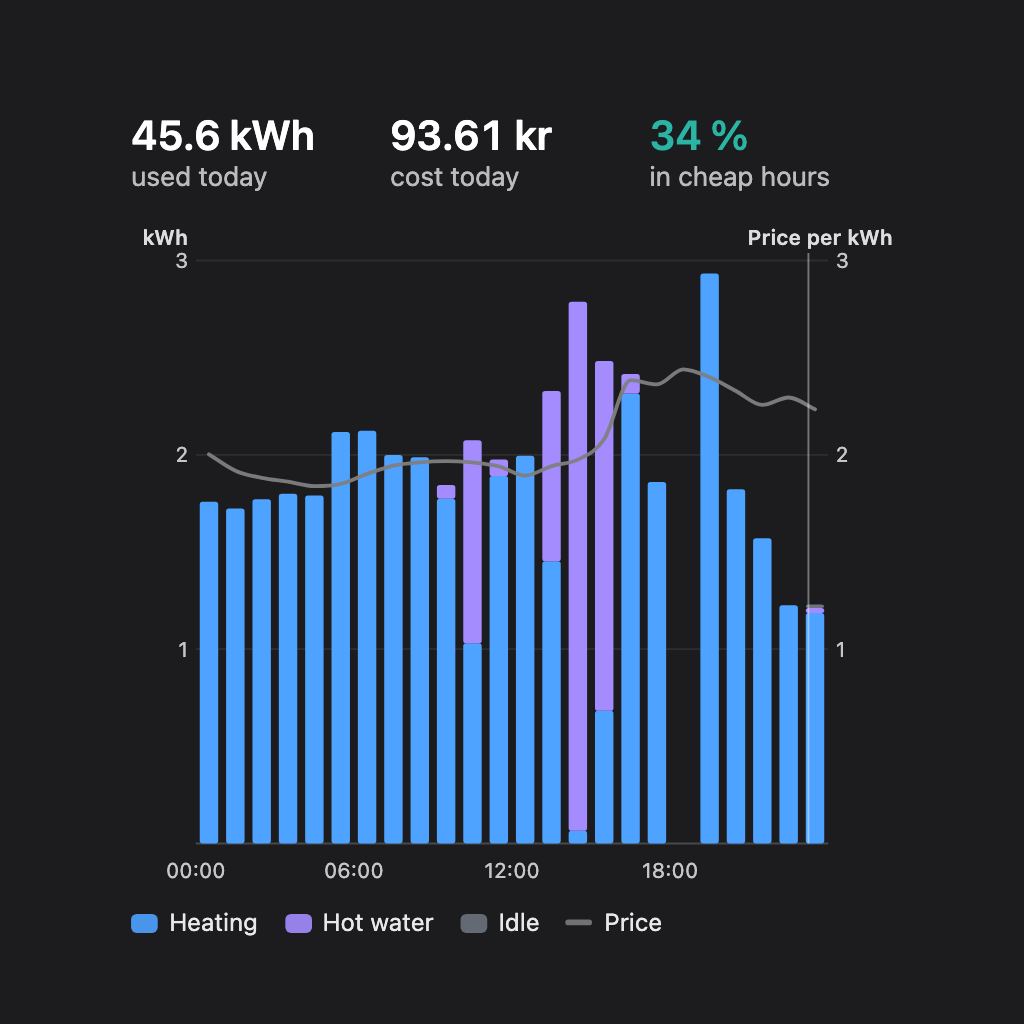
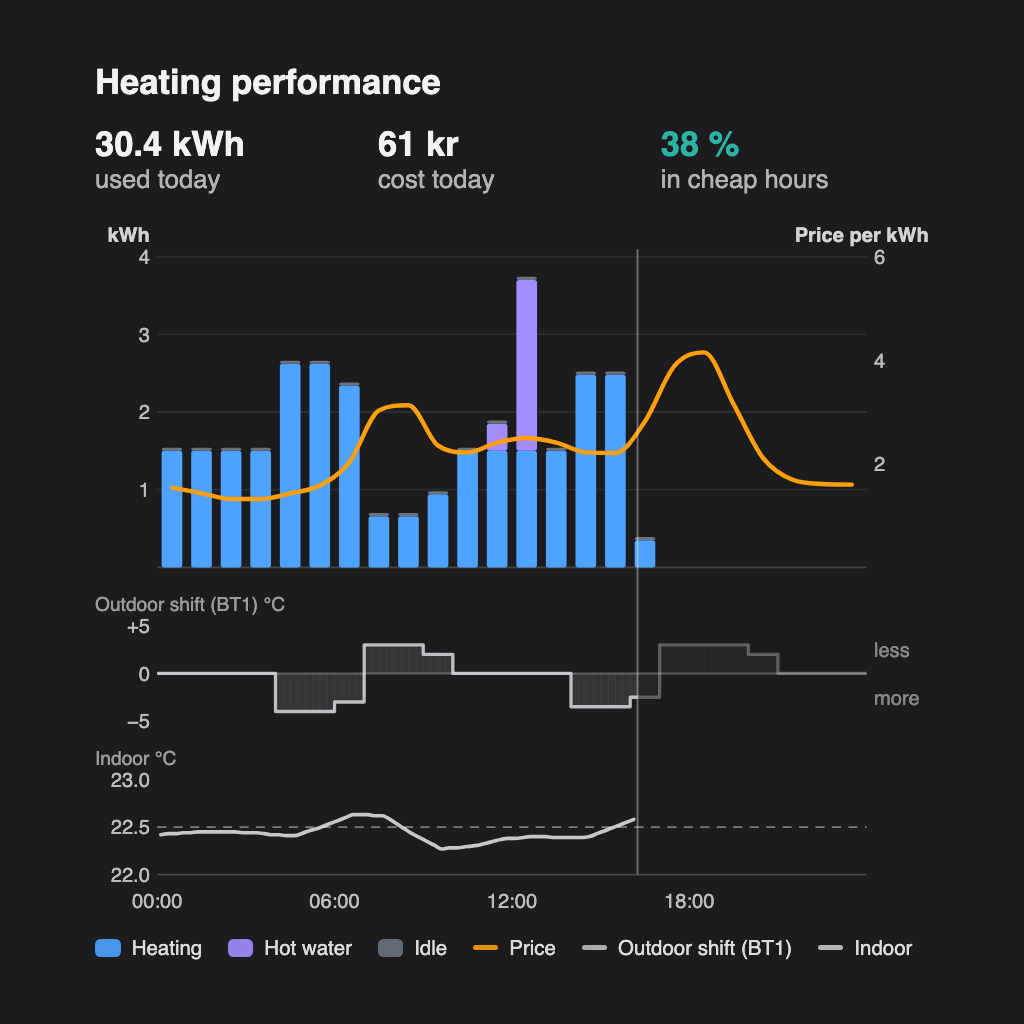
Heating performance replaces Energy today
The Energy today widget becomes Heating performance: a heading, the same three
numbers (used, cost, share in cheap hours), the hourly electricity against an
orange price line, then two strips on the same hours: the outdoor shift (BT1)
Autopilot sent, its plan after now lighter, and indoor against the thermostat.
An owner sees the shift and the electricity follow the price.

A day's cost is now written as a bill: whole kronor, euro to 10 cents (also
Overview's today and by-midnight figures, which read the same numbers).

Same widget id, so cards already on a dashboard carry over. New previews.

diff --git a/widgets/energy/public/index.html b/widgets/energy/public/index.html
@@ -1,16 +1,19 @@
 <html>
   <head>
+    <meta charset="utf-8">
     <style>
       .en { padding: var(--homey-su-2, 8px) var(--homey-su-3, 12px); }
       .en-title { opacity: 0.7; white-space: nowrap; overflow: hidden; text-overflow: ellipsis; }
       .en-chips { display: flex; flex-wrap: wrap; gap: 6px; margin: 6px 0 0; }
       .en-chip { font-size: 0.8em; padding: 2px 8px; border-radius: 999px; background: transparent; border: 1px solid rgba(127, 127, 127, 0.4); opacity: 0.75; }
-      .en-status { text-wrap: balance; margin: 12px 0 0; font-size: 1.35em; font-weight: 600; }
+      .en-status { text-wrap: balance; margin: 4px 0 0; font-size: 1.35em; font-weight: 600; }
       .en-reason { margin: 4px 0 0; opacity: 0.85; }
       .en-chart { display: block; margin-top: 14px; overflow: visible; }
       .en-chart text { font-size: 11px; fill: currentColor; opacity: 0.75; }
       .en-chart text.axis-title { font-size: 11px; font-weight: 600; opacity: 0.85; }
       .en-chart text.grid { font-size: 10px; opacity: 0.55; }
+      .en-chart text.lane { font-size: 10.5px; opacity: 0.6; }
+      .en-chart text.side { opacity: 0.5; }
       .en-legend { display: flex; flex-wrap: wrap; gap: 4px 14px; font-size: 0.8em; opacity: 0.9; margin-top: 10px; }
       .en-key { display: inline-block; width: 14px; height: 10px; border-radius: 3px; margin-right: 6px; vertical-align: -1px; box-sizing: border-box; }
       .en-key.line { height: 3px; border-radius: 2px; vertical-align: 3px; }
@@ -28,12 +31,13 @@
       .en-num b { display: block; font-size: 1.35em; font-weight: 600; font-variant-numeric: tabular-nums; white-space: nowrap; }
       .en-num b.good { color: var(--en-cheap); }
       .en-num span { opacity: 0.7; }
-      /* Heating in blue, hot water in violet (the hot water cards' use colour), the price in grey,
-         and the cheap share in the savings cards' cheap colour. */
-      :root { --en-heat: #2d6bd6; --en-water: #7652d6; --en-idle: #a7adb6; --en-price: rgba(127, 127, 127, 0.95); --en-cheap: #0f8374; }
-      :root[data-theme="dark"] { --en-heat: #4da3ff; --en-water: #a48cff; --en-idle: #6c737d; --en-cheap: #2bb3a3; }
+      /* Heating in blue, hot water in violet (the hot water cards' use colour), the price in orange (the
+         owner's choice, 2026-11-26, so it stands out from the bars), and the cheap share in the savings
+         cards' cheap colour. The outdoor shift and indoor are the text colour: they are read, not keyed. */
+      :root { --en-heat: #2d6bd6; --en-water: #7652d6; --en-idle: #a7adb6; --en-price: #d46a00; --en-cheap: #0f8374; }
+      :root[data-theme="dark"] { --en-heat: #4da3ff; --en-water: #a48cff; --en-idle: #6c737d; --en-price: #ff9f0a; --en-cheap: #2bb3a3; }
       @media (prefers-color-scheme: dark) {
-        :root:not([data-theme="light"]) { --en-heat: #4da3ff; --en-water: #a48cff; --en-idle: #6c737d; --en-cheap: #2bb3a3; }
+        :root:not([data-theme="light"]) { --en-heat: #4da3ff; --en-water: #a48cff; --en-idle: #6c737d; --en-price: #ff9f0a; --en-cheap: #2bb3a3; }
       }
     </style>
   </head>
@@ -143,10 +147,13 @@
       }
 
       // kWh per hour as bars, heating at the bottom, then hot water, Main's idle use on top, on the left scale; the
-      // hour's price as a line on the right scale; a thin line at now.
+      // hour's price as a line on the right scale. Under it, on the same hours, the outdoor shift Autopilot
+      // sent (the plan after now lighter) and indoor against the thermostat. A thin line at now through all.
+      var STRIP = 52, STRIP_GAP = 32;
       function energyChart(data) {
         var c = data.chart, W = chartWidth(), L = GUTTER, R = W - GUTTER, n = c.hours.length, step = (R - L) / n, bw = Math.max(2, step * 0.7);
-        var PH = Math.max(110, Math.min(170, Math.round(W * 0.38))) + EXTRA, T = 20, B = T + PH, H = B + 24;
+        var st = data.strips || {}, lanes = (st.offset ? 1 : 0) + (st.indoor ? 1 : 0);
+        var PH = Math.max(110, Math.min(170, Math.round(W * 0.38))) + EXTRA, T = 20, B = T + PH, H = B + lanes * (STRIP + STRIP_GAP) + 24;
         var svg = svgEl('svg', {viewBox: '0 0 ' + W + ' ' + H, width: W, height: H, class: 'en-chart', role: 'img'});
         var yk = function (v) { return B - PH * v / c.kwhAxis.max; }, yp = function (v) { return B - PH * v / c.priceAxis.max; };
         var x = function (k) { return L + step * (k + 0.5); };
@@ -174,11 +181,63 @@
         });
         var p = [];
         c.hours.forEach(function (h, k) { if (typeof h.price === 'number') p.push([x(k), yp(h.price)]); });
-        if (p.length) svg.appendChild(svgEl('path', {d: monotone(p), fill: 'none', stroke: 'var(--en-price)', 'stroke-width': 2, 'stroke-linecap': 'round'}));
+        if (p.length) svg.appendChild(svgEl('path', {d: monotone(p), fill: 'none', stroke: 'var(--en-price)', 'stroke-width': 2.4, 'stroke-linecap': 'round'}));
+        var bottom = B, sx = function (k) { return L + step * k / 4; };
+        if (st.offset && st.shiftAxis) bottom = shiftStrip(svg, st, data.axes, bottom + STRIP_GAP, L, R, sx);
+        if (st.indoor && st.indoorAxis) bottom = indoorStrip(svg, st, data.axes, bottom + STRIP_GAP, L, R, sx);
         if (typeof data.now === 'number')
-          svg.appendChild(svgEl('line', {x1: L + step * data.now, x2: L + step * data.now, y1: T - 4, y2: B, stroke: 'currentColor', 'stroke-opacity': 0.4}));
+          svg.appendChild(svgEl('line', {x1: L + step * data.now, x2: L + step * data.now, y1: T - 4, y2: bottom, stroke: 'currentColor', 'stroke-opacity': 0.4}));
         hours(svg, data.ticks.map(function (t) { return {x: L + step * t.at, label: t.label}; }), H - 6);
         return svg;
+      }
+
+      function signed(v) { return v > 0 ? '+' + v : v < 0 ? '−' + Math.abs(v) : '0'; }
+
+      // BT1 as sent minus the real outdoor temperature, in steps from 0: below 0 it was sent colder, so the
+      // heat pump heats more. Recorded up to now, the plan after it lighter.
+      function shiftStrip(svg, st, axes, top, L, R, sx) {
+        var a = st.shiftAxis, y = function (v) { return top + STRIP * (a.hi - v) / (a.hi - a.lo); };
+        svg.appendChild(svgEl('text', {x: 0, y: top - 8, class: 'lane'}, axes.offset));
+        svg.appendChild(svgEl('line', {x1: L, x2: R, y1: y(0), y2: y(0), stroke: 'currentColor', 'stroke-opacity': 0.3}));
+        [a.lo, 0, a.hi].forEach(function (v) { svg.appendChild(svgEl('text', {x: L - 4, y: y(v) + 4, 'text-anchor': 'end'}, signed(v))); });
+        if (axes.less) svg.appendChild(svgEl('text', {x: R + 4, y: y(a.hi / 2) + 4, class: 'side'}, axes.less));
+        if (axes.more) svg.appendChild(svgEl('text', {x: R + 4, y: y(a.lo / 2) + 4, class: 'side'}, axes.more));
+        [[0, st.planFrom, 0.75], [st.planFrom, st.offset.length, 0.3]].forEach(function (part) {
+          var d = '', pen = false;
+          for (var k = part[0]; k < part[1]; k++) {
+            var v = st.offset[k];
+            if (typeof v !== 'number') { pen = false; continue; }
+            if (v) svg.appendChild(svgEl('rect', {x: sx(k), y: Math.min(y(0), y(v)), width: sx(k + 1) - sx(k) + 0.2, height: Math.abs(y(v) - y(0)),
+              fill: 'currentColor', 'fill-opacity': part[2] * 0.16}));
+            d += (pen ? 'L' : 'M') + sx(k).toFixed(1) + ' ' + y(v).toFixed(1) + 'H' + sx(k + 1).toFixed(1);
+            pen = true;
+          }
+          if (d) svg.appendChild(svgEl('path', {d: d, fill: 'none', stroke: 'currentColor', 'stroke-opacity': part[2], 'stroke-width': 1.8, 'stroke-linejoin': 'round'}));
+        });
+        return top + STRIP;
+      }
+
+      // Indoor as recorded, a smooth line, and the thermostat dashed.
+      function indoorStrip(svg, st, axes, top, L, R, sx) {
+        var a = st.indoorAxis, y = function (v) { return top + STRIP * (a.hi - v) / (a.hi - a.lo); };
+        svg.appendChild(svgEl('text', {x: 0, y: top - 8, class: 'lane'}, axes.indoor));
+        var hasSet = typeof st.setpoint === 'number';
+        if (hasSet) {
+          svg.appendChild(svgEl('line', {x1: L, x2: R, y1: y(st.setpoint), y2: y(st.setpoint), stroke: 'currentColor', 'stroke-opacity': 0.45, 'stroke-dasharray': '5 4'}));
+          svg.appendChild(svgEl('text', {x: L - 4, y: y(st.setpoint) + 4, 'text-anchor': 'end'}, fmt(st.setpoint, 1)));
+        }
+        // The scale's ends, where they do not crowd the thermostat's label.
+        [a.lo, a.hi].forEach(function (v) {
+          if (hasSet && Math.abs(y(v) - y(st.setpoint)) < 12) return;
+          svg.appendChild(svgEl('text', {x: L - 4, y: y(v) + 4, 'text-anchor': 'end'}, fmt(v, a.decimals)));
+        });
+        runs(st.indoor, function (v) { return v; }).forEach(function (r) {
+          var p = [];
+          for (var k = r[0]; k <= r[1]; k++) p.push([sx(k + 0.5), y(st.indoor[k])]);
+          svg.appendChild(svgEl('path', {d: monotone(p), fill: 'none', stroke: 'currentColor', 'stroke-opacity': 0.8, 'stroke-width': 2, 'stroke-linecap': 'round'}));
+        });
+        svg.appendChild(svgEl('line', {x1: L, x2: R, y1: top + STRIP, y2: top + STRIP, stroke: 'currentColor', 'stroke-opacity': 0.2}));
+        return top + STRIP;
       }
 
       function legend(items) {
@@ -217,9 +276,11 @@
         // The card's own title names it; the device name and an Experimental tag are not repeated.
         if (data.empty) { root.appendChild(el('p', 'en-empty', data.empty)); return; }
         if (data.loading && !data.chart) {
-          root.appendChild(placeholder(Math.max(110, Math.min(170, Math.round(chartWidth() * 0.38))) + 60 + EXTRA));
+          // Room for the two strips too, so the card does not grow when the data comes.
+          root.appendChild(placeholder(Math.max(110, Math.min(170, Math.round(chartWidth() * 0.38))) + 60 + 2 * (STRIP + STRIP_GAP) + EXTRA));
           return;
         }
+        if (data.heading) root.appendChild(el('div', 'en-status', data.heading));
         var nums = el('div', 'en-nums');
         (data.numbers || []).forEach(function (n) {
           var cell = el('div', 'en-num');
@@ -234,7 +295,9 @@
           {text: lg.heating, style: 'background: var(--en-heat);'},
           {text: lg.hotwater, style: 'background: var(--en-water);'},
           {text: lg.main, style: 'background: var(--en-idle);'},
-          {text: lg.price, line: true, style: 'background: var(--en-price);'}]));
+          {text: lg.price, line: true, style: 'background: var(--en-price);'},
+          {text: data.strips && data.strips.offset ? lg.offset : '', line: true, style: 'background: currentColor; opacity: 0.75;'},
+          {text: data.strips && data.strips.indoor ? lg.indoor : '', line: true, style: 'background: currentColor; opacity: 0.8;'}]));
       }
 
       function onHomeyReady(Homey) {

diff --git a/lib/device.ts b/lib/device.ts
@@ -33,7 +33,7 @@ import {WidgetData, aimingFor, chargeBands, symmetricAxis, formatDuration, heati
 import {HotwaterUseData, TodayRow, hotwaterWeek, useRuns} from './autopilot/hotwater-use';
 import {TankWidgetData, tankChart} from './autopilot/hotwater-tank';
 import {ComfortDay, ComfortSlot, addComfortSlot, readComfortDays} from './autopilot/comfort-days';
-import {ENERGY_ROLES, EnergyWidgetData, energyChart, useToday} from './autopilot/energy';
+import {ENERGY_ROLES, EnergyWidgetData, HeatingStrips, dayCostText, energyChart, heatingStrips, useToday} from './autopilot/energy';
 import {NowKind, OVERVIEW_KINDS, OverviewData, OverviewFact, OverviewKind, OverviewNow, OverviewTile, overviewData, plannedAhead} from './autopilot/overview';
 import {SLOT_MS, localDate, localMinutes, slotOf} from './autopilot/prices';
 import {CHECK_DAYS, CurveView, LiveReason, SettleEvent, SettleState, Step, calibrateDay, change, checkedWhileSettling, daysBetween, readSettle, scoreDay, withinRange,
@@ -3098,11 +3098,29 @@ export abstract class NibePumpDevice extends Device implements PumpSubscriber {
         };
     }
 
-    // ---- The Energy today widget (widgets/energy) ----
+    // ---- The Heating performance widget (widgets/energy, Energy today until 2026-11) ----
 
-    /** What the Energy today widget draws for this pump (picked by its Main device): the hourly
-     *  use of its Heating and Hot water, and Main's idle use, against today's price. Every string translated here. */
-    energyWidget(): EnergyWidgetData {
+    /** Heating's part of Heating performance: today's outdoor shift and indoor, per slot from local
+     *  midnight, the same slots the Autopilot widget draws (recorded, then the plan from now). */
+    heatingStripsToday(): HeatingStrips | undefined {
+        if (this.role !== 'heating') return undefined;
+        const slot = slotOf(Date.now());
+        const local = localClock(this.homey.clock.getTimezone());
+        const day = todaySlots(slot, (ms) => local(ms).date);
+        const now = slot - day.from;
+        // One entry per slot since midnight, whatever the history holds, so the plan lands at now.
+        const recorded = this.autopilot?.recent(day.from, now) ?? [];
+        const past = Array.from({length: now}, (_, k) => recorded[k] ?? {});
+        const plan = autopilotRuns(this.smartMode() as SmartMode) ? this.heatingFeed?.state : undefined;
+        const slots = heatingSlots(past, plan, slot, day.n - now);
+        const setpoint = Number(this.getCapabilityValue('target_temperature'));
+        return heatingStrips(slots, now, Number.isFinite(setpoint) ? setpoint : undefined);
+    }
+
+    /** What the Heating performance widget draws for this pump (picked by its Main device): the hourly
+     *  use of its Heating and Hot water, and Main's idle use, against today's price, then heating's
+     *  outdoor shift and indoor. Every string translated here. */
+    energyWidget(withStrips = true): EnergyWidgetData {
         const t = (key: string, tokens?: Record<string, string | number>) => this.homey.__(`autopilot.energy.${key}`, tokens);
         const title = this.getName();
         const host = String(this.getData().id).split('#')[0];
@@ -3135,16 +3153,20 @@ export abstract class NibePumpDevice extends Device implements PumpSubscriber {
         // draw it: the line falls inside the hour's bar, which holds the use so far.
         const hour = Math.max(0, hours.findIndex((at) => at > Date.now()) - 1);
         const now = hour + Math.floor((Date.now() - hours[hour]) / (15 * 60_000)) / 4;
-        return {title, chart, now,
+        const w = (key: string) => this.homey.__(`autopilot.widget.${key}`);
+        const strips = withStrips ? byRole.get('heating')?.heatingStripsToday?.() as HeatingStrips | undefined : undefined;
+        return {title, heading: t('heading'), chart, now,
             numbers: [
                 {value: `${kwh} kWh`, label: t('used')},
-                // Two decimals, as Homey Energy shows the same cost.
-                {value: moneyText(chart.cost, 2, language, currency), label: t('cost')},
+                // Whole kronor, euro to 10 cents (owner's choice, 2026-11-26): a day's cost, not a meter reading.
+                {value: dayCostText(chart.cost, language, currency), label: t('cost')},
                 ...chart.cheapShare === undefined ? [] : [{value: `${Math.round(chart.cheapShare * 100)} %`, label: t('cheap'), good: true}],
             ],
             ticks: [0, 6, 12, 18].map((k) => ({at: k, label: this.clock(hours[0] + k * HOUR_MS)})),
-            legend: {heating: t('heating'), hotwater: t('hotwater'), main: t('idle'), price: t('price')},
-            axes: {kwh: 'kWh', price: t('price_axis')}};
+            legend: {heating: t('heating'), hotwater: t('hotwater'), main: t('idle'), price: t('price'),
+                offset: w('offset'), indoor: w('indoor')},
+            axes: {kwh: 'kWh', price: t('price_axis'), offset: `${w('offset')} °C`, indoor: w('axis_indoor'), more: t('more'), less: t('less')},
+            ...strips ? {strips} : {}};
     }
 
     // ---- The Overview widget (widgets/overview) ----
@@ -3167,7 +3189,8 @@ export abstract class NibePumpDevice extends Device implements PumpSubscriber {
         const one = (v: number) => numberFormat(language, {minimumFractionDigits: 1, maximumFractionDigits: 1}).format(v);
         const kinds = OVERVIEW_KINDS.filter((k) => byRole.has(k));
         if (!kinds.length) return {title, empty: this.homey.__('autopilot.energy.no_functions'), tiles: [], facts: []};
-        const energy = this.energyWidget();
+        // Its numbers only: the strips are not drawn here.
+        const energy = this.energyWidget(false);
         if (energy.loading && !offline) return {title, loading: true, tiles: [], facts: []};
 
         // Hot water's plan: the run in progress (its end and reason) and the next one.
@@ -3244,7 +3267,7 @@ export abstract class NibePumpDevice extends Device implements PumpSubscriber {
         if (used && spent) facts.push({label: t('today'), value: `${used} · ${spent}`});
         const currency = String(siblings.map((d) => d.energyToday?.()?.currency).find(Boolean) ?? '');
         const ahead = this.restOfToday(energy, siblings);
-        if (ahead) facts.push({label: t('by_midnight'), value: t('by_midnight_value', {kwh: one(ahead.kwh), cost: moneyText(ahead.cost, 0, language, currency)})});
+        if (ahead) facts.push({label: t('by_midnight'), value: t('by_midnight_value', {kwh: one(ahead.kwh), cost: dayCostText(ahead.cost, language, currency)})});
         const month = this.monthFigures(byRole, language);
         // The month's figures as a group of their own, a little apart from today's.
         const split = facts.length > 0 ? {split: true} : {};

diff --git a/lib/autopilot/energy.ts b/lib/autopilot/energy.ts
@@ -1,8 +1,10 @@
-/** The Energy today widget's data (widgets/energy): the heat pump's electricity per hour today,
- *  split by function (and Main's idle use), against the hour's price, and three numbers: kWh so far, what it cost, and
- *  the share used in the day's cheapest hours. Pure; the device gathers the inputs. */
-import {niceAxis} from './widget';
-import {RESET_SHARE} from './savings';
+/** The Heating performance widget's data (widgets/energy, named Energy today until 2026-11): the heat
+ *  pump's electricity per hour today, split by function (and Main's idle use), against the hour's price,
+ *  and three numbers: kWh so far, what it cost, and the share used in the day's cheapest hours. Under it,
+ *  what Autopilot sent as the outdoor temperature (BT1) and what the house did indoors, so an owner sees
+ *  the shift and the electricity follow the price. Pure; the device gathers the inputs. */
+import {Axis, niceAxis, WidgetSlot} from './widget';
+import {RESET_SHARE, moneyText} from './savings';
 
 /** The devices whose use is shown, in stacking order (bottom first): the functions, then Main's
  *  idle use, so the total matches the pump's devices in Homey Energy. */
@@ -123,9 +125,59 @@ export function useToday(m: MeterReads, hours: number[], now = Date.now()): {use
     return {use, slots};
 }
 
+/** The two strips under the electricity chart, per 15-minute slot of today (index = slot from local
+ *  midnight; a clock-change day has 92 or 100). `offset` is BT1 as sent minus the real outdoor
+ *  temperature (positive = sent warmer, so it heats less), recorded before `planFrom` and Autopilot's
+ *  plan from it; `indoor` the recorded reading, before `planFrom` only. */
+export interface HeatingStrips {
+    offset?: (number | null)[];
+    indoor?: (number | null)[];
+    /** The thermostat, drawn as a dashed line on the indoor strip. */
+    setpoint?: number;
+    /** The first slot that is plan, not record. */
+    planFrom: number;
+    shiftAxis?: Axis;
+    indoorAxis?: Axis;
+}
+
+/** The strips from heating's slots (widget.ts `heatingSlots`: the past, then the plan from `now`).
+ *  The shift is left out where nothing was ever sent today and nothing is planned, so an owner
+ *  without Autopilot heating sees no flat line; indoor where there is no reading. */
+export function heatingStrips(slots: WidgetSlot[], now: number, setpoint?: number): HeatingStrips {
+    const offset = slots.map((s) => (s.offset === undefined ? null : s.offset));
+    const indoor = slots.map((s, k) => (k < now && s.indoor !== undefined ? s.indoor : null));
+    const shifts = offset.filter((v): v is number => v !== null);
+    const readings = indoor.filter((v): v is number => v !== null);
+    const out: HeatingStrips = {planFrom: now, ...Number.isFinite(setpoint) ? {setpoint} : {}};
+    if (shifts.some((v) => v !== 0)) {
+        const m = Math.max(...shifts.map(Math.abs));
+        out.offset = offset;
+        out.shiftAxis = niceAxis(-m, m, {include: [0], steps: [1, 2, 5, 10], maxIntervals: 2});
+    }
+    if (readings.length) {
+        const span = out.setpoint === undefined ? readings : [...readings, out.setpoint];
+        out.indoor = indoor;
+        out.indoorAxis = niceAxis(Math.min(...span) - 0.2, Math.max(...span) + 0.2, {minSpan: 0.6, steps: [0.5, 1, 2, 5], maxIntervals: 3});
+    }
+    return out;
+}
+
+/** Currencies whose unit is worth about a quarter of a euro or less: a day's cost is written in whole
+ *  units ("149 kr"). The rest round to 10 cents ("€5.30"), about the same step in money. */
+const SMALL_UNIT = new Set(['SEK', 'NOK', 'DKK', 'ISK', 'CZK', 'PLN', 'HUF', 'RON', 'JPY', 'ZAR']);
+
+/** A day's cost as an owner reads a bill, not to the öre. */
+export function dayCostText(v: number, language: string, currency: string): string {
+    const code = currency.toUpperCase();
+    if (SMALL_UNIT.has(code) || !/^[A-Z]{3}$/.test(code)) return moneyText(Math.round(v), 0, language, currency);
+    return moneyText(Math.round(v * 10) / 10, 2, language, currency);
+}
+
 /** Everything the widget draws, translated. Without `chart` it shows `empty`, or the loading state. */
 export interface EnergyWidgetData {
     title: string;
+    /** The card's heading. */
+    heading?: string;
     badge?: string;
     empty?: string;
     loading?: boolean;
@@ -135,6 +187,8 @@ export interface EnergyWidgetData {
     /** Now in hours from midnight, at its 15-minute slot (14.75 is 14:45), the hours to label, and the legend. */
     now?: number;
     ticks?: {at: number; label: string}[];
-    legend?: {heating: string; hotwater: string; main: string; price: string};
-    axes?: {kwh: string; price: string};
+    legend?: {heating: string; hotwater: string; main: string; price: string; offset?: string; indoor?: string};
+    axes?: {kwh: string; price: string; offset?: string; indoor?: string; more?: string; less?: string};
+    /** The outdoor shift and indoor strips; absent without a Heating device. */
+    strips?: HeatingStrips;
 }

diff --git a/test/autopilot-energy.test.ts b/test/autopilot-energy.test.ts
@@ -1,6 +1,6 @@
 import {test} from 'node:test';
 import assert from 'node:assert';
-import {energyChart, useToday} from '../lib/autopilot/energy';
+import {dayCostText, energyChart, heatingStrips, useToday} from '../lib/autopilot/energy';
 
 const H = 3_600_000;
 // Six hours; prices 1–6 kr; heating every hour so far (four), hot water in two.
@@ -78,4 +78,28 @@ test('a meter restored older than it was, then caught up, puts no use in the cat
     const {use} = useToday({points: v.map((x, k) => ({at: T0 + k * H, v: x})), slots: new Map(), meterNow: 487.4}, hours, T0 + 8 * H);
     assert.equal(use.get(T0 + 6 * H) ?? 0, 0, 'the catch-up is no use');
     assert.ok(Math.abs((use.get(T0 + 7 * H) ?? 0) - 0.8) < 1e-9);
+});
+
+test('a day cost reads as a bill: whole kronor, euro to 10 cents', () => {
+    assert.equal(dayCostText(149.45, 'en', 'SEK'), '149 kr');
+    assert.equal(dayCostText(149.55, 'sv', 'SEK'), '150 kr');
+    assert.equal(dayCostText(5.27, 'en', 'EUR'), '€5.30');
+    assert.equal(dayCostText(5.27, 'nl', 'EUR').replace(/\s/g, ' '), '€ 5,30');
+    assert.equal(dayCostText(12.4, 'en', ''), '12', 'no currency: whole units');
+});
+
+test('heating strips: the shift only when it moved, indoor only up to now', () => {
+    const slots = [{indoor: 22.4, offset: 0}, {indoor: 22.5, offset: -3}, {indoor: 22.6, offset: 2}, {indoor: 22.7, offset: 2}, {}];
+    const s = heatingStrips(slots, 2, 22.5);
+    assert.deepEqual(s.offset, [0, -3, 2, 2, null]);
+    assert.deepEqual(s.indoor, [22.4, 22.5, null, null, null], 'the plan\'s expected indoor is not drawn as a reading');
+    assert.equal(s.planFrom, 2);
+    assert.equal(s.setpoint, 22.5);
+    assert.ok(s.shiftAxis!.lo <= -3 && s.shiftAxis!.hi >= 3 && s.shiftAxis!.lo === -s.shiftAxis!.hi, 'symmetric about 0');
+    assert.ok(s.indoorAxis!.lo <= 22.4 && s.indoorAxis!.hi >= 22.5);
+    // Nothing sent today and nothing planned (Autopilot off): no flat line.
+    const off = heatingStrips([{indoor: 21, offset: 0}, {indoor: 21.1, offset: 0}], 2);
+    assert.equal(off.offset, undefined);
+    assert.ok(off.indoor && off.setpoint === undefined);
+    assert.equal(heatingStrips([{}, {}], 1).indoor, undefined);
 });

diff --git a/docs/autopilot-plan.md b/docs/autopilot-plan.md
@@ -2241,7 +2241,8 @@ their own rather than part of M3.
 
 **Built (dev branch):** Autopilot (`widgets/autopilot`, §10.0), Heating savings and Hot water
 savings (§11), Day plan (below), Getting started (§7.7), Plan vs actual (`widgets/cost_check`),
-Energy today (`widgets/energy`), Heat pump overview (`widgets/overview`), and hot water's two,
+Heating performance (`widgets/energy`, Energy today until 2026-11: today's electricity against the
+price, then the outdoor shift (BT1) and indoor), Heat pump overview (`widgets/overview`), and hot water's two,
 Hot water and Hot water use (hot water doc). Autopilot's candidates as first planned:
 
 - **Planned heating:** the next 24 h, with planned indoor against comfort, the pre-heat and coast
